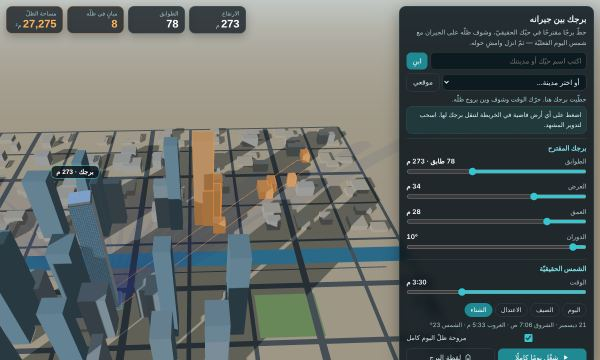
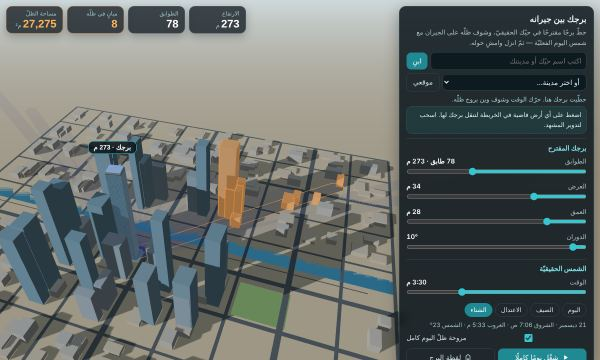
تجارب «مدينتك الحقيقيّة»: «برجك بين جيرانه» مكتملة + لقطة الباقي
Claude-Session: https://claude.ai/code/session_016SPVkCyq3th8Kb5uBbd4wR

diff --git a/inspire/src/chase.html b/inspire/src/chase.html
@@ -45,8 +45,8 @@
     return new THREE.ShaderMaterial({
       uniforms: { c: { value: new THREE.Color(col) }, o: { value: 0.5 }, t: { value: 0 } },
       vertexShader: 'varying float vy; void main(){ vy = uv.y; gl_Position = projectionMatrix * modelViewMatrix * vec4(position, 1.0); }',
-      fragmentShader: 'uniform vec3 c; uniform float o; uniform float t; varying float vy; void main(){ float a = pow(1.0 - vy, 2.2) * o * (0.8 + 0.2 * sin(t * 3.0 - vy * 30.0)); gl_FragColor = vec4(c * 1.4, a); }',
-      transparent: true, depthWrite: false, blending: THREE.AdditiveBlending, side: THREE.DoubleSide,
+      fragmentShader: 'uniform vec3 c; uniform float o; uniform float t; varying float vy; void main(){ float a = smoothstep(0.0, 0.05, vy) * pow(1.0 - vy, 1.7) * o * (0.8 + 0.2 * sin(t * 3.0 - vy * 30.0)); gl_FragColor = vec4(c, a); }',
+      transparent: true, depthWrite: false, blending: THREE.AdditiveBlending, side: THREE.FrontSide,
     });
   }
 
@@ -155,7 +155,7 @@
   function makeCar(THREE) {
     const g = new THREE.Group(), body = new THREE.Group(); g.add(body);
     const paint = new THREE.MeshPhongMaterial({ color: 0xff4a1c, shininess: 90, specular: 0x777777 });
-    const glass = new THREE.MeshPhongMaterial({ color: 0x0f1820, shininess: 140, specular: 0xbbccdd });
+    const glass = new THREE.MeshPhongMaterial({ color: 0x1a2a38, shininess: 150, specular: 0xd8e6f2 });
     const black = new THREE.MeshLambertMaterial({ color: 0x15171a });
     const rimM = new THREE.MeshPhongMaterial({ color: 0xd5dde2, shininess: 70 });
     const prof = (pts, width, bevel, mat) => {
@@ -170,6 +170,7 @@
     const spoiler = new THREE.Mesh(new THREE.BoxGeometry(1.76, 0.06, 0.36), black); spoiler.position.set(0, 1.12, -2.0); spoiler.castShadow = true; body.add(spoiler);
     for (const sx of [-0.62, 0.62]) { const st = new THREE.Mesh(new THREE.BoxGeometry(0.07, 0.2, 0.14), black); st.position.set(sx, 1.0, -1.98); body.add(st); }
     const head = new THREE.MeshBasicMaterial({ color: 0xfff4d6 });
+    const diff = new THREE.Mesh(new THREE.BoxGeometry(1.5, 0.16, 0.1), black); diff.position.set(0, 0.4, -2.29); body.add(diff);
     const tailM = new THREE.MeshBasicMaterial({ color: 0x8a1010 });
     for (const sx of [-0.58, 0.58]) {
       const hl = new THREE.Mesh(new THREE.BoxGeometry(0.44, 0.11, 0.06), head); hl.position.set(sx, 0.62, 2.29); body.add(hl);
@@ -197,9 +198,9 @@
     s.moveTo(0, 1.35); s.lineTo(1.05, 0.15); s.lineTo(0.42, 0.15); s.lineTo(0.42, -0.95); s.lineTo(-0.42, -0.95); s.lineTo(-0.42, 0.15); s.lineTo(-1.05, 0.15); s.closePath();
     const geo = new THREE.ExtrudeGeometry(s, { depth: 0.22, bevelEnabled: false }); geo.rotateX(Math.PI / 2); geo.translate(0, 0.11, 0);
     const grp = new THREE.Group(); grp.rotation.order = 'YXZ';
-    const m = new THREE.Mesh(geo, new THREE.MeshBasicMaterial({ color: 0x3ff0ff })); grp.add(m);
+    const m = new THREE.Mesh(geo, new THREE.MeshBasicMaterial({ color: 0x3ff0ff, transparent: true })); grp.add(m); grp.userData.mats = [m.material];
     const halo = new THREE.Mesh(geo, new THREE.MeshBasicMaterial({ color: 0x3ff0ff, transparent: true, opacity: 0.35, blending: THREE.AdditiveBlending, depthWrite: false }));
-    halo.scale.set(1.35, 1.6, 1.35); grp.add(halo);
+    halo.scale.set(1.35, 1.6, 1.35); grp.add(halo); grp.userData.mats.push(halo.material);
     return grp;
   }
   function makeGate(THREE, cp, i, last) {
@@ -210,7 +211,7 @@
     const haloM = new THREE.MeshBasicMaterial({ color: col, transparent: true, opacity: 0.3, blending: THREE.AdditiveBlending, depthWrite: false });
     const halo = new THREE.Mesh(new THREE.TorusGeometry(cp.gr, 1.1, 8, 64), haloM); halo.position.copy(ring.position); halo.rotation.y = cp.a; g.add(halo);
     const beamM = beamMat(THREE, col);
-    const beam = new THREE.Mesh(new THREE.CylinderGeometry(cp.gr * 0.75, cp.gr * 0.95, 170, 36, 1, true), beamM); beam.position.y = 85; g.add(beam);
+    const beam = new THREE.Mesh(new THREE.CylinderGeometry(cp.gr * 0.42, cp.gr * 0.55, 170, 32, 1, true), beamM); beam.position.y = 85; g.add(beam);
     const discM = new THREE.MeshBasicMaterial({ color: col, transparent: true, opacity: 0.5, blending: THREE.AdditiveBlending, depthWrite: false, side: THREE.DoubleSide });
     const disc = new THREE.Mesh(new THREE.RingGeometry(cp.gr * 0.55, cp.gr * 1.05, 48), discM); disc.rotation.x = -Math.PI / 2; disc.position.y = 0.13; g.add(disc);
     const spM = new THREE.SpriteMaterial({ map: numTex(i + 1, last), depthTest: false, fog: false, transparent: true });
@@ -236,6 +237,34 @@
     const geo = new THREE.BufferGeometry(); geo.setAttribute('position', new THREE.Float32BufferAttribute(pos, 3)); geo.computeVertexNormals();
     const m = new THREE.Mesh(geo, new THREE.MeshLambertMaterial({ color: 0xf6f1e4, side: THREE.DoubleSide })); m.receiveShadow = true;
     return m;
+  }
+  function lampMesh(THREE, city) { // أعمدة إنارة على جانبي الطرق الرئيسيّة — نسختان متكرّرتان (InstancedMesh)
+    const pts = [], lim2 = (R * 0.9) * (R * 0.9);
+    for (const r of city.roads) {
+      if (!DRIVE[r.kind] || r.w < 10) continue;
+      const off = r.w / 2 + 1.1; let carry = 8;
+      for (let i = 0; i < r.pts.length - 1 && pts.length < 1400; i++) {
+        const p = r.pts[i], q = r.pts[i + 1], dx = q[0] - p[0], dz = q[1] - p[1], L = Math.hypot(dx, dz);
+        if (L < 0.01) continue;
+        const ux = dx / L, uz = dz / L; let s = carry;
+        for (; s <= L; s += 32) for (const sd of [1, -1]) {
+          const x = p[0] + ux * s - uz * off * sd, z = p[1] + uz * s + ux * off * sd;
+          if (x * x + z * z > lim2 || city.idx.at(x, z)) continue;
+          pts.push([x, z, Math.atan2(uz * sd, -ux * sd)]);
+        }
+        carry = s - L;
+      }
+    }
+    const pole = new THREE.CylinderGeometry(0.07, 0.11, 7.2, 6); pole.translate(0, 3.6, 0);
+    const arm = new THREE.BoxGeometry(0.07, 0.07, 1.7); arm.translate(0, 7.1, 0.8);
+    const head = new THREE.BoxGeometry(0.34, 0.12, 0.6); head.translate(0, 7.02, 1.55);
+    const pm = new THREE.InstancedMesh(pole, new THREE.MeshLambertMaterial({ color: 0x39434a }), pts.length);
+    const am = new THREE.InstancedMesh(arm, pm.material, pts.length);
+    const hm = new THREE.InstancedMesh(head, new THREE.MeshBasicMaterial({ color: 0xffe2a8 }), pts.length);
+    const o = new THREE.Object3D();
+    pts.forEach((p, i) => { o.position.set(p[0], 0, p[1]); o.rotation.y = p[2]; o.updateMatrix(); pm.setMatrixAt(i, o.matrix); am.setMatrixAt(i, o.matrix); hm.setMatrixAt(i, o.matrix); });
+    const g = new THREE.Group(); g.add(pm, am, hm); g.userData.count = pts.length;
+    return g;
   }
   function buildMap(city) { // خريطة مصغّرة مرسومة مرّة واحدة لكلّ مدينة
     const S = 1024, E = R, sc = S / (2 * E);
@@ -399,7 +428,7 @@
       state: g.st, finished: g.st === 'done', bestSec: g.best ? +g.best.toFixed(2) : null, newRecord: !!g.newRec,
       lastRun: g.lastRun || null, speedKmh: c ? Math.round(Math.abs(c.v) * 3.6) : 0,
       nextDistM: c && cp ? Math.round(Math.hypot(cp.x - c.x, cp.z - c.z)) : null, onRoad: c ? !!c.on : null,
-      routeM: Math.round(g.routeLen || 0), roadSamples: g.samples.length, buildings: g.city.buildings.length,
+      routeM: Math.round(g.routeLen || 0), roadSamples: g.samples.length, lamps: g.lamps ? g.lamps.userData.count : 0, buildings: g.city.buildings.length,
       car: c ? { x: +c.x.toFixed(1), z: +c.z.toFixed(1), h: +c.h.toFixed(3) } : null,
       checkpoints: g.cps.map((p) => ({ x: Math.round(p.x), z: Math.round(p.z), road: p.name || '' })), city: g.city.name || '',
     };
@@ -479,7 +508,7 @@
   function camUpdate(dt) {
     const g = G, c = g.car, cam = X.camera, sp = Math.abs(c.v), top = camMode === 1;
     if (g.snap) g.camH = c.h; else g.camH = angWrap(g.camH + angWrap(c.h - g.camH) * Math.min(1, dt * 4.5));
-    let dist = top ? 30 : 8.8 + sp * 0.13, hgt = top ? 34 : 3.5 + sp * 0.035;
+    let dist = top ? 30 : 9.6 + sp * 0.12, hgt = top ? 34 : 4.3 + sp * 0.04;
     const fx = Math.sin(g.camH), fz = Math.cos(g.camH);
     if (!top) for (let k = 0; k < 6; k++) { // لا تدخل الكاميرا في مبنى ولا يحجبها مبنى
       const b1 = g.idx.at(c.x - fx * dist, c.z - fz * dist), b2 = g.idx.at(c.x - fx * dist * 0.5, c.z - fz * dist * 0.5);
@@ -487,11 +516,12 @@
       dist *= 0.75; hgt += 1.2;
     }
     tmpPos.set(c.x - fx * dist, hgt, c.z - fz * dist);
-    tmpLook.set(c.x + fx * (top ? 9 : 5.5), top ? 0 : 1.4, c.z + fz * (top ? 9 : 5.5));
+    tmpLook.set(c.x + fx * (top ? 9 : 6), top ? 0 : 1.2, c.z + fz * (top ? 9 : 6));
     if (g.st === 'done') { g.orbA += dt * 0.32; tmpPos.set(c.x + Math.sin(g.orbA) * 14, 5.5, c.z + Math.cos(g.orbA) * 14); tmpLook.set(c.x, 1.1, c.z); }
     if (g.st === 'intro' && !g.snap) {
-      const e = ease(Math.min(1, g.intro.t / 2.8));
-      camPos.copy(g.intro.from).lerp(tmpPos, e); camLook.copy(g.intro.look).lerp(tmpLook, e);
+      const u = Math.min(1, g.intro.t / 2.8), eh = ease(Math.min(1, u / 0.72)), ev = Math.pow(ease(u), 1.6); // أفقيًّا أوّلًا ثمّ نزول عموديّ فوق الشارع
+      camPos.set(g.intro.from.x + (tmpPos.x - g.intro.from.x) * eh, g.intro.from.y + (tmpPos.y - g.intro.from.y) * ev, g.intro.from.z + (tmpPos.z - g.intro.from.z) * eh);
+      camLook.copy(g.intro.look).lerp(tmpLook, eh);
     } else if (g.snap) { camPos.copy(tmpPos); camLook.copy(tmpLook); }
     else { camPos.lerp(tmpPos, 1 - Math.exp(-dt * 7)); camLook.lerp(tmpLook, 1 - Math.exp(-dt * 10)); }
     g.snap = false;
@@ -527,8 +557,9 @@
       }
       const act = i === g.passed && g.st !== 'done', nxt = i === g.passed + 1;
       const pulse = 0.5 + 0.5 * Math.sin(t * 4);
-      o.ringM.opacity = act ? 1 : 0.45; o.haloM.opacity = act ? 0.25 + 0.25 * pulse : 0.08;
-      o.beamM.uniforms.o.value = act ? 0.9 : nxt ? 0.32 : 0.18; o.beamM.uniforms.t.value = t;
+      const dc = Math.hypot(cp.x - g.car.x, cp.z - g.car.z), near = Math.max(0.2, Math.min(1, (dc - 8) / 60));
+      o.ringM.opacity = act ? 1 : 0.45; o.haloM.opacity = act ? 0.1 + 0.14 * pulse : 0.06;
+      o.beamM.uniforms.o.value = (act ? 0.55 : nxt ? 0.28 : 0.16) * near; o.beamM.uniforms.t.value = t;
       o.discM.opacity = act ? 0.35 + 0.35 * pulse : 0.12;
       o.ring.scale.setScalar(act ? 1 + 0.04 * pulse : 0.9); o.halo.scale.copy(o.ring.scale);
       o.sp.visible = act || nxt; o.spM.opacity = act ? 1 : 0.6; o.spM.depthTest = !act; o.sp.scale.setScalar(act ? 5.5 + pulse * 0.6 : 4);
@@ -539,8 +570,11 @@
     a.visible = !!cp && g.st !== 'done' && camMode === 0;
     if (!a.visible) return;
     a.position.set(c.x + Math.sin(c.h) * 0.6, 2.75 + Math.sin(now * 0.004) * 0.1, c.z + Math.cos(c.h) * 0.6);
-    a.rotation.y = Math.atan2(cp.x - c.x, cp.z - c.z); a.rotation.x = 0.5;
-    const d = Math.hypot(cp.x - c.x, cp.z - c.z); a.scale.setScalar(d < 25 ? Math.max(0.35, d / 25) * 0.85 : 0.85);
+    const yaw = Math.atan2(cp.x - c.x, cp.z - c.z), d = Math.hypot(cp.x - c.x, cp.z - c.z);
+    a.rotation.y = yaw; a.rotation.x = 0.5;
+    a.scale.setScalar(d < 25 ? Math.max(0.35, d / 25) * 0.62 : 0.62);
+    const ahead = Math.abs(angWrap(yaw - c.h)) < 0.3 && d < 140, op = ahead ? 0.3 : 0.95; // الهدف أمامك ظاهر: السهم يخفت
+    a.userData.mats[0].opacity += (op - a.userData.mats[0].opacity) * 0.1; a.userData.mats[1].opacity = a.userData.mats[0].opacity * 0.35;
   }
   function drawMap() {
     const g = G, m = g.map, cv = D.map, c = g.car, x = D.mapCtx; if (!m || !cv.width) return;
@@ -611,6 +645,7 @@
     X = ctx; const THREE = ctx.THREE;
     ctx.orbit.enabled = false;
     document.body.classList.add('cz-compact');
+    const ae = document.activeElement; if (ae && ae.blur && /^(SELECT|INPUT)$/.test(ae.tagName)) ae.blur(); // الأسهم للقيادة لا لتغيير القائمة
     hideOverlays();
     const g = G = { city, idx: city.idx, st: 'none', t: 0, passed: 0, collisions: 0, cps: [], samples: [], car: null, best: 0, newRec: false, lastRun: null,
       shake: 0, hudT: 0, stT: 0, layT: 0, lim2: (R * 0.95) * (R * 0.95), routeLen: 0, camH: 0, orbA: 0, snap: true };
@@ -623,6 +658,7 @@
     const course = pickCourse(g.samples);
     g.start = course.start; g.cps = course.cps; g.routeLen = course.len;
     city.group.add(dashMesh(THREE, city));
+    g.lamps = lampMesh(THREE, city); city.group.add(g.lamps);
     g.carObj = makeCar(THREE); city.group.add(g.carObj.g);
     g.arrow = makeArrow(THREE); city.group.add(g.arrow);
     g.cps.forEach((cp, i) => { cp.obj = makeGate(THREE, cp, i, i === g.cps.length - 1); city.group.add(cp.obj.g); });
@@ -632,7 +668,7 @@
     g.best = readBest();
     D.len.textContent = (g.routeLen / 1000).toFixed(1) + T(' كم', ' km');
     g.st = 'intro'; g.intro = { t: 0, from: ctx.camera.position.clone(), look: new THREE.Vector3(0, 0, 0) }; g.snap = false;
-    ctx.ui.status(T('جاهز: ', 'Ready: ') + g.cps.length + T(' نقاط على شوارع حقيقيّة · ', ' checkpoints on real streets · ') + city.buildings.length + T(' مبنى جدار', ' solid buildings'));
+    ctx.ui.status(T('جاهز: ', 'Ready: ') + g.cps.length + T(' نقاط على شوارع حقيقيّة · ', ' checkpoints on real streets · ') + city.buildings.length + T(' مبنى حقيقيّ', ' real buildings'));
     ctx.onFrame(frame);
     hud(); sync(); placeHud();
   }

diff --git a/inspire/city/chase.html b/inspire/city/chase.html
@@ -397,8 +397,8 @@
     return new THREE.ShaderMaterial({
       uniforms: { c: { value: new THREE.Color(col) }, o: { value: 0.5 }, t: { value: 0 } },
       vertexShader: 'varying float vy; void main(){ vy = uv.y; gl_Position = projectionMatrix * modelViewMatrix * vec4(position, 1.0); }',
-      fragmentShader: 'uniform vec3 c; uniform float o; uniform float t; varying float vy; void main(){ float a = pow(1.0 - vy, 2.2) * o * (0.8 + 0.2 * sin(t * 3.0 - vy * 30.0)); gl_FragColor = vec4(c * 1.4, a); }',
-      transparent: true, depthWrite: false, blending: THREE.AdditiveBlending, side: THREE.DoubleSide,
+      fragmentShader: 'uniform vec3 c; uniform float o; uniform float t; varying float vy; void main(){ float a = smoothstep(0.0, 0.05, vy) * pow(1.0 - vy, 1.7) * o * (0.8 + 0.2 * sin(t * 3.0 - vy * 30.0)); gl_FragColor = vec4(c, a); }',
+      transparent: true, depthWrite: false, blending: THREE.AdditiveBlending, side: THREE.FrontSide,
     });
   }
 
@@ -507,7 +507,7 @@
   function makeCar(THREE) {
     const g = new THREE.Group(), body = new THREE.Group(); g.add(body);
     const paint = new THREE.MeshPhongMaterial({ color: 0xff4a1c, shininess: 90, specular: 0x777777 });
-    const glass = new THREE.MeshPhongMaterial({ color: 0x0f1820, shininess: 140, specular: 0xbbccdd });
+    const glass = new THREE.MeshPhongMaterial({ color: 0x1a2a38, shininess: 150, specular: 0xd8e6f2 });
     const black = new THREE.MeshLambertMaterial({ color: 0x15171a });
     const rimM = new THREE.MeshPhongMaterial({ color: 0xd5dde2, shininess: 70 });
     const prof = (pts, width, bevel, mat) => {
@@ -522,6 +522,7 @@
     const spoiler = new THREE.Mesh(new THREE.BoxGeometry(1.76, 0.06, 0.36), black); spoiler.position.set(0, 1.12, -2.0); spoiler.castShadow = true; body.add(spoiler);
     for (const sx of [-0.62, 0.62]) { const st = new THREE.Mesh(new THREE.BoxGeometry(0.07, 0.2, 0.14), black); st.position.set(sx, 1.0, -1.98); body.add(st); }
     const head = new THREE.MeshBasicMaterial({ color: 0xfff4d6 });
+    const diff = new THREE.Mesh(new THREE.BoxGeometry(1.5, 0.16, 0.1), black); diff.position.set(0, 0.4, -2.29); body.add(diff);
     const tailM = new THREE.MeshBasicMaterial({ color: 0x8a1010 });
     for (const sx of [-0.58, 0.58]) {
       const hl = new THREE.Mesh(new THREE.BoxGeometry(0.44, 0.11, 0.06), head); hl.position.set(sx, 0.62, 2.29); body.add(hl);
@@ -549,9 +550,9 @@
     s.moveTo(0, 1.35); s.lineTo(1.05, 0.15); s.lineTo(0.42, 0.15); s.lineTo(0.42, -0.95); s.lineTo(-0.42, -0.95); s.lineTo(-0.42, 0.15); s.lineTo(-1.05, 0.15); s.closePath();
     const geo = new THREE.ExtrudeGeometry(s, { depth: 0.22, bevelEnabled: false }); geo.rotateX(Math.PI / 2); geo.translate(0, 0.11, 0);
     const grp = new THREE.Group(); grp.rotation.order = 'YXZ';
-    const m = new THREE.Mesh(geo, new THREE.MeshBasicMaterial({ color: 0x3ff0ff })); grp.add(m);
+    const m = new THREE.Mesh(geo, new THREE.MeshBasicMaterial({ color: 0x3ff0ff, transparent: true })); grp.add(m); grp.userData.mats = [m.material];
     const halo = new THREE.Mesh(geo, new THREE.MeshBasicMaterial({ color: 0x3ff0ff, transparent: true, opacity: 0.35, blending: THREE.AdditiveBlending, depthWrite: false }));
-    halo.scale.set(1.35, 1.6, 1.35); grp.add(halo);
+    halo.scale.set(1.35, 1.6, 1.35); grp.add(halo); grp.userData.mats.push(halo.material);
     return grp;
   }
   function makeGate(THREE, cp, i, last) {
@@ -562,7 +563,7 @@
     const haloM = new THREE.MeshBasicMaterial({ color: col, transparent: true, opacity: 0.3, blending: THREE.AdditiveBlending, depthWrite: false });
     const halo = new THREE.Mesh(new THREE.TorusGeometry(cp.gr, 1.1, 8, 64), haloM); halo.position.copy(ring.position); halo.rotation.y = cp.a; g.add(halo);
     const beamM = beamMat(THREE, col);
-    const beam = new THREE.Mesh(new THREE.CylinderGeometry(cp.gr * 0.75, cp.gr * 0.95, 170, 36, 1, true), beamM); beam.position.y = 85; g.add(beam);
+    const beam = new THREE.Mesh(new THREE.CylinderGeometry(cp.gr * 0.42, cp.gr * 0.55, 170, 32, 1, true), beamM); beam.position.y = 85; g.add(beam);
     const discM = new THREE.MeshBasicMaterial({ color: col, transparent: true, opacity: 0.5, blending: THREE.AdditiveBlending, depthWrite: false, side: THREE.DoubleSide });
     const disc = new THREE.Mesh(new THREE.RingGeometry(cp.gr * 0.55, cp.gr * 1.05, 48), discM); disc.rotation.x = -Math.PI / 2; disc.position.y = 0.13; g.add(disc);
     const spM = new THREE.SpriteMaterial({ map: numTex(i + 1, last), depthTest: false, fog: false, transparent: true });
@@ -588,6 +589,34 @@
     const geo = new THREE.BufferGeometry(); geo.setAttribute('position', new THREE.Float32BufferAttribute(pos, 3)); geo.computeVertexNormals();
     const m = new THREE.Mesh(geo, new THREE.MeshLambertMaterial({ color: 0xf6f1e4, side: THREE.DoubleSide })); m.receiveShadow = true;
     return m;
+  }
+  function lampMesh(THREE, city) { // أعمدة إنارة على جانبي الطرق الرئيسيّة — نسختان متكرّرتان (InstancedMesh)
+    const pts = [], lim2 = (R * 0.9) * (R * 0.9);
+    for (const r of city.roads) {
+      if (!DRIVE[r.kind] || r.w < 10) continue;
+      const off = r.w / 2 + 1.1; let carry = 8;
+      for (let i = 0; i < r.pts.length - 1 && pts.length < 1400; i++) {
+        const p = r.pts[i], q = r.pts[i + 1], dx = q[0] - p[0], dz = q[1] - p[1], L = Math.hypot(dx, dz);
+        if (L < 0.01) continue;
+        const ux = dx / L, uz = dz / L; let s = carry;
+        for (; s <= L; s += 32) for (const sd of [1, -1]) {
+          const x = p[0] + ux * s - uz * off * sd, z = p[1] + uz * s + ux * off * sd;
+          if (x * x + z * z > lim2 || city.idx.at(x, z)) continue;
+          pts.push([x, z, Math.atan2(uz * sd, -ux * sd)]);
+        }
+        carry = s - L;
+      }
+    }
+    const pole = new THREE.CylinderGeometry(0.07, 0.11, 7.2, 6); pole.translate(0, 3.6, 0);
+    const arm = new THREE.BoxGeometry(0.07, 0.07, 1.7); arm.translate(0, 7.1, 0.8);
+    const head = new THREE.BoxGeometry(0.34, 0.12, 0.6); head.translate(0, 7.02, 1.55);
+    const pm = new THREE.InstancedMesh(pole, new THREE.MeshLambertMaterial({ color: 0x39434a }), pts.length);
+    const am = new THREE.InstancedMesh(arm, pm.material, pts.length);
+    const hm = new THREE.InstancedMesh(head, new THREE.MeshBasicMaterial({ color: 0xffe2a8 }), pts.length);
+    const o = new THREE.Object3D();
+    pts.forEach((p, i) => { o.position.set(p[0], 0, p[1]); o.rotation.y = p[2]; o.updateMatrix(); pm.setMatrixAt(i, o.matrix); am.setMatrixAt(i, o.matrix); hm.setMatrixAt(i, o.matrix); });
+    const g = new THREE.Group(); g.add(pm, am, hm); g.userData.count = pts.length;
+    return g;
   }
   function buildMap(city) { // خريطة مصغّرة مرسومة مرّة واحدة لكلّ مدينة
     const S = 1024, E = R, sc = S / (2 * E);
@@ -751,7 +780,7 @@
       state: g.st, finished: g.st === 'done', bestSec: g.best ? +g.best.toFixed(2) : null, newRecord: !!g.newRec,
       lastRun: g.lastRun || null, speedKmh: c ? Math.round(Math.abs(c.v) * 3.6) : 0,
       nextDistM: c && cp ? Math.round(Math.hypot(cp.x - c.x, cp.z - c.z)) : null, onRoad: c ? !!c.on : null,
-      routeM: Math.round(g.routeLen || 0), roadSamples: g.samples.length, buildings: g.city.buildings.length,
+      routeM: Math.round(g.routeLen || 0), roadSamples: g.samples.length, lamps: g.lamps ? g.lamps.userData.count : 0, buildings: g.city.buildings.length,
       car: c ? { x: +c.x.toFixed(1), z: +c.z.toFixed(1), h: +c.h.toFixed(3) } : null,
       checkpoints: g.cps.map((p) => ({ x: Math.round(p.x), z: Math.round(p.z), road: p.name || '' })), city: g.city.name || '',
     };
@@ -831,7 +860,7 @@
   function camUpdate(dt) {
     const g = G, c = g.car, cam = X.camera, sp = Math.abs(c.v), top = camMode === 1;
     if (g.snap) g.camH = c.h; else g.camH = angWrap(g.camH + angWrap(c.h - g.camH) * Math.min(1, dt * 4.5));
-    let dist = top ? 30 : 8.8 + sp * 0.13, hgt = top ? 34 : 3.5 + sp * 0.035;
+    let dist = top ? 30 : 9.6 + sp * 0.12, hgt = top ? 34 : 4.3 + sp * 0.04;
     const fx = Math.sin(g.camH), fz = Math.cos(g.camH);
     if (!top) for (let k = 0; k < 6; k++) { // لا تدخل الكاميرا في مبنى ولا يحجبها مبنى
       const b1 = g.idx.at(c.x - fx * dist, c.z - fz * dist), b2 = g.idx.at(c.x - fx * dist * 0.5, c.z - fz * dist * 0.5);
@@ -839,11 +868,12 @@
       dist *= 0.75; hgt += 1.2;
     }
     tmpPos.set(c.x - fx * dist, hgt, c.z - fz * dist);
-    tmpLook.set(c.x + fx * (top ? 9 : 5.5), top ? 0 : 1.4, c.z + fz * (top ? 9 : 5.5));
+    tmpLook.set(c.x + fx * (top ? 9 : 6), top ? 0 : 1.2, c.z + fz * (top ? 9 : 6));
     if (g.st === 'done') { g.orbA += dt * 0.32; tmpPos.set(c.x + Math.sin(g.orbA) * 14, 5.5, c.z + Math.cos(g.orbA) * 14); tmpLook.set(c.x, 1.1, c.z); }
     if (g.st === 'intro' && !g.snap) {
-      const e = ease(Math.min(1, g.intro.t / 2.8));
-      camPos.copy(g.intro.from).lerp(tmpPos, e); camLook.copy(g.intro.look).lerp(tmpLook, e);
+      const u = Math.min(1, g.intro.t / 2.8), eh = ease(Math.min(1, u / 0.72)), ev = Math.pow(ease(u), 1.6); // أفقيًّا أوّلًا ثمّ نزول عموديّ فوق الشارع
+      camPos.set(g.intro.from.x + (tmpPos.x - g.intro.from.x) * eh, g.intro.from.y + (tmpPos.y - g.intro.from.y) * ev, g.intro.from.z + (tmpPos.z - g.intro.from.z) * eh);
+      camLook.copy(g.intro.look).lerp(tmpLook, eh);
     } else if (g.snap) { camPos.copy(tmpPos); camLook.copy(tmpLook); }
     else { camPos.lerp(tmpPos, 1 - Math.exp(-dt * 7)); camLook.lerp(tmpLook, 1 - Math.exp(-dt * 10)); }
     g.snap = false;
@@ -879,8 +909,9 @@
       }
       const act = i === g.passed && g.st !== 'done', nxt = i === g.passed + 1;
       const pulse = 0.5 + 0.5 * Math.sin(t * 4);
-      o.ringM.opacity = act ? 1 : 0.45; o.haloM.opacity = act ? 0.25 + 0.25 * pulse : 0.08;
-      o.beamM.uniforms.o.value = act ? 0.9 : nxt ? 0.32 : 0.18; o.beamM.uniforms.t.value = t;
+      const dc = Math.hypot(cp.x - g.car.x, cp.z - g.car.z), near = Math.max(0.2, Math.min(1, (dc - 8) / 60));
+      o.ringM.opacity = act ? 1 : 0.45; o.haloM.opacity = act ? 0.1 + 0.14 * pulse : 0.06;
+      o.beamM.uniforms.o.value = (act ? 0.55 : nxt ? 0.28 : 0.16) * near; o.beamM.uniforms.t.value = t;
       o.discM.opacity = act ? 0.35 + 0.35 * pulse : 0.12;
       o.ring.scale.setScalar(act ? 1 + 0.04 * pulse : 0.9); o.halo.scale.copy(o.ring.scale);
       o.sp.visible = act || nxt; o.spM.opacity = act ? 1 : 0.6; o.spM.depthTest = !act; o.sp.scale.setScalar(act ? 5.5 + pulse * 0.6 : 4);
@@ -891,8 +922,11 @@
     a.visible = !!cp && g.st !== 'done' && camMode === 0;
     if (!a.visible) return;
     a.position.set(c.x + Math.sin(c.h) * 0.6, 2.75 + Math.sin(now * 0.004) * 0.1, c.z + Math.cos(c.h) * 0.6);
-    a.rotation.y = Math.atan2(cp.x - c.x, cp.z - c.z); a.rotation.x = 0.5;
-    const d = Math.hypot(cp.x - c.x, cp.z - c.z); a.scale.setScalar(d < 25 ? Math.max(0.35, d / 25) * 0.85 : 0.85);
+    const yaw = Math.atan2(cp.x - c.x, cp.z - c.z), d = Math.hypot(cp.x - c.x, cp.z - c.z);
+    a.rotation.y = yaw; a.rotation.x = 0.5;
+    a.scale.setScalar(d < 25 ? Math.max(0.35, d / 25) * 0.62 : 0.62);
+    const ahead = Math.abs(angWrap(yaw - c.h)) < 0.3 && d < 140, op = ahead ? 0.3 : 0.95; // الهدف أمامك ظاهر: السهم يخفت
+    a.userData.mats[0].opacity += (op - a.userData.mats[0].opacity) * 0.1; a.userData.mats[1].opacity = a.userData.mats[0].opacity * 0.35;
   }
   function drawMap() {
     const g = G, m = g.map, cv = D.map, c = g.car, x = D.mapCtx; if (!m || !cv.width) return;
@@ -963,6 +997,7 @@
     X = ctx; const THREE = ctx.THREE;
     ctx.orbit.enabled = false;
     document.body.classList.add('cz-compact');
+    const ae = document.activeElement; if (ae && ae.blur && /^(SELECT|INPUT)$/.test(ae.tagName)) ae.blur(); // الأسهم للقيادة لا لتغيير القائمة
     hideOverlays();
     const g = G = { city, idx: city.idx, st: 'none', t: 0, passed: 0, collisions: 0, cps: [], samples: [], car: null, best: 0, newRec: false, lastRun: null,
       shake: 0, hudT: 0, stT: 0, layT: 0, lim2: (R * 0.95) * (R * 0.95), routeLen: 0, camH: 0, orbA: 0, snap: true };
@@ -975,6 +1010,7 @@
     const course = pickCourse(g.samples);
     g.start = course.start; g.cps = course.cps; g.routeLen = course.len;
     city.group.add(dashMesh(THREE, city));
+    g.lamps = lampMesh(THREE, city); city.group.add(g.lamps);
     g.carObj = makeCar(THREE); city.group.add(g.carObj.g);
     g.arrow = makeArrow(THREE); city.group.add(g.arrow);
     g.cps.forEach((cp, i) => { cp.obj = makeGate(THREE, cp, i, i === g.cps.length - 1); city.group.add(cp.obj.g); });

diff --git a/inspire/city/tower.html b/inspire/city/tower.html
@@ -724,7 +724,7 @@ body.tw-walk .tw-joy{display:block}body.tw-walk .tw-walkbar{display:flex}body.tw
       ctx.ui.hud('<div class="tw-cards">' +
         card(T('الارتفاع', 'Height'), fmt(h), T('م', 'm')) + card(T('الطوابق', 'Floors'), fmt(P.floors), '') +
         card(T('مبانٍ في ظلّه', 'Buildings shaded'), night ? '—' : fmt(S.shaded.length), '', 'acc') +
-        card(T('مساحة الظلّ', 'Shadow area'), night ? '—' : (S.areaM2 >= 1e6 ? (S.areaM2 / 1e6).toFixed(2) : fmt(S.areaM2)), S.areaM2 >= 1e6 ? T('كم²', 'km²') : T('م²', 'm²'), 'acc') + '</div>');
+        card(T('مساحة الظلّ', 'Shadow area'), night ? '—' : (S.areaM2 >= 1e6 ? (S.areaM2 / 1e6).toFixed(2) : fmt(S.areaM2)), night ? '' : S.areaM2 >= 1e6 ? T('كم²', 'km²') : T('م²', 'm²'), 'acc') + '</div>');
     }
     if (el.tag) el.tag.textContent = T('برجك', 'Your tower') + ' · ' + fmt(h) + T(' م', ' m');
     if (el.vals) {
@@ -786,7 +786,7 @@ body.tw-walk .tw-joy{display:block}body.tw-walk .tw-walkbar{display:flex}body.tw
     if (r.width && r.top > Hh * 0.3) visH = r.top; else if (r.width && r.left > W * 0.45) visW = r.left;
     visH = Math.max(120, visH - 60); // بطاقات الأرقام في الأعلى
     const tall = visW / visH < 0.9, Lraw = sv ? Math.hypot(sv[0], sv[1]) : 0, Lc = Math.min(Lraw, h * (tall ? 0.9 : 2));
-    const u = Lraw ? [sv[0] / Lraw, sv[1] / Lraw] : [0, 0], cA = Lc * 0.4, cY = (h + 35) / 2;
+    const u = Lraw ? [sv[0] / Lraw, sv[1] / Lraw] : [0, 0], cA = Lc * 0.4, cY = (h + 75) / 2; // + الهوائيّ والوسم فوق القمّة
     const radius = Math.hypot(Lc - cA, cY) + Math.max(P.w, P.d) * 0.6, t = Math.tan(ctx.camera.fov / 2 * DEG);
     const half = Math.min(Math.atan(t * visH / Hh), Math.atan(t * visW / Hh));
     return { target: new THREE.Vector3(S.x + u[0] * cA, cY, S.z + u[1] * cA), dist: clamp(radius / Math.sin(half) * 0.95, 200, 2600), theta: th, phi: 0.88 };

diff --git a/inspire/src/tower.html b/inspire/src/tower.html
@@ -372,7 +372,7 @@ body.tw-walk .tw-joy{display:block}body.tw-walk .tw-walkbar{display:flex}body.tw
       ctx.ui.hud('<div class="tw-cards">' +
         card(T('الارتفاع', 'Height'), fmt(h), T('م', 'm')) + card(T('الطوابق', 'Floors'), fmt(P.floors), '') +
         card(T('مبانٍ في ظلّه', 'Buildings shaded'), night ? '—' : fmt(S.shaded.length), '', 'acc') +
-        card(T('مساحة الظلّ', 'Shadow area'), night ? '—' : (S.areaM2 >= 1e6 ? (S.areaM2 / 1e6).toFixed(2) : fmt(S.areaM2)), S.areaM2 >= 1e6 ? T('كم²', 'km²') : T('م²', 'm²'), 'acc') + '</div>');
+        card(T('مساحة الظلّ', 'Shadow area'), night ? '—' : (S.areaM2 >= 1e6 ? (S.areaM2 / 1e6).toFixed(2) : fmt(S.areaM2)), night ? '' : S.areaM2 >= 1e6 ? T('كم²', 'km²') : T('م²', 'm²'), 'acc') + '</div>');
     }
     if (el.tag) el.tag.textContent = T('برجك', 'Your tower') + ' · ' + fmt(h) + T(' م', ' m');
     if (el.vals) {
@@ -434,7 +434,7 @@ body.tw-walk .tw-joy{display:block}body.tw-walk .tw-walkbar{display:flex}body.tw
     if (r.width && r.top > Hh * 0.3) visH = r.top; else if (r.width && r.left > W * 0.45) visW = r.left;
     visH = Math.max(120, visH - 60); // بطاقات الأرقام في الأعلى
     const tall = visW / visH < 0.9, Lraw = sv ? Math.hypot(sv[0], sv[1]) : 0, Lc = Math.min(Lraw, h * (tall ? 0.9 : 2));
-    const u = Lraw ? [sv[0] / Lraw, sv[1] / Lraw] : [0, 0], cA = Lc * 0.4, cY = (h + 35) / 2;
+    const u = Lraw ? [sv[0] / Lraw, sv[1] / Lraw] : [0, 0], cA = Lc * 0.4, cY = (h + 75) / 2; // + الهوائيّ والوسم فوق القمّة
     const radius = Math.hypot(Lc - cA, cY) + Math.max(P.w, P.d) * 0.6, t = Math.tan(ctx.camera.fov / 2 * DEG);
     const half = Math.min(Math.atan(t * visH / Hh), Math.atan(t * visW / Hh));
     return { target: new THREE.Vector3(S.x + u[0] * cA, cY, S.z + u[1] * cA), dist: clamp(radius / Math.sin(half) * 0.95, 200, 2600), theta: th, phi: 0.88 };
